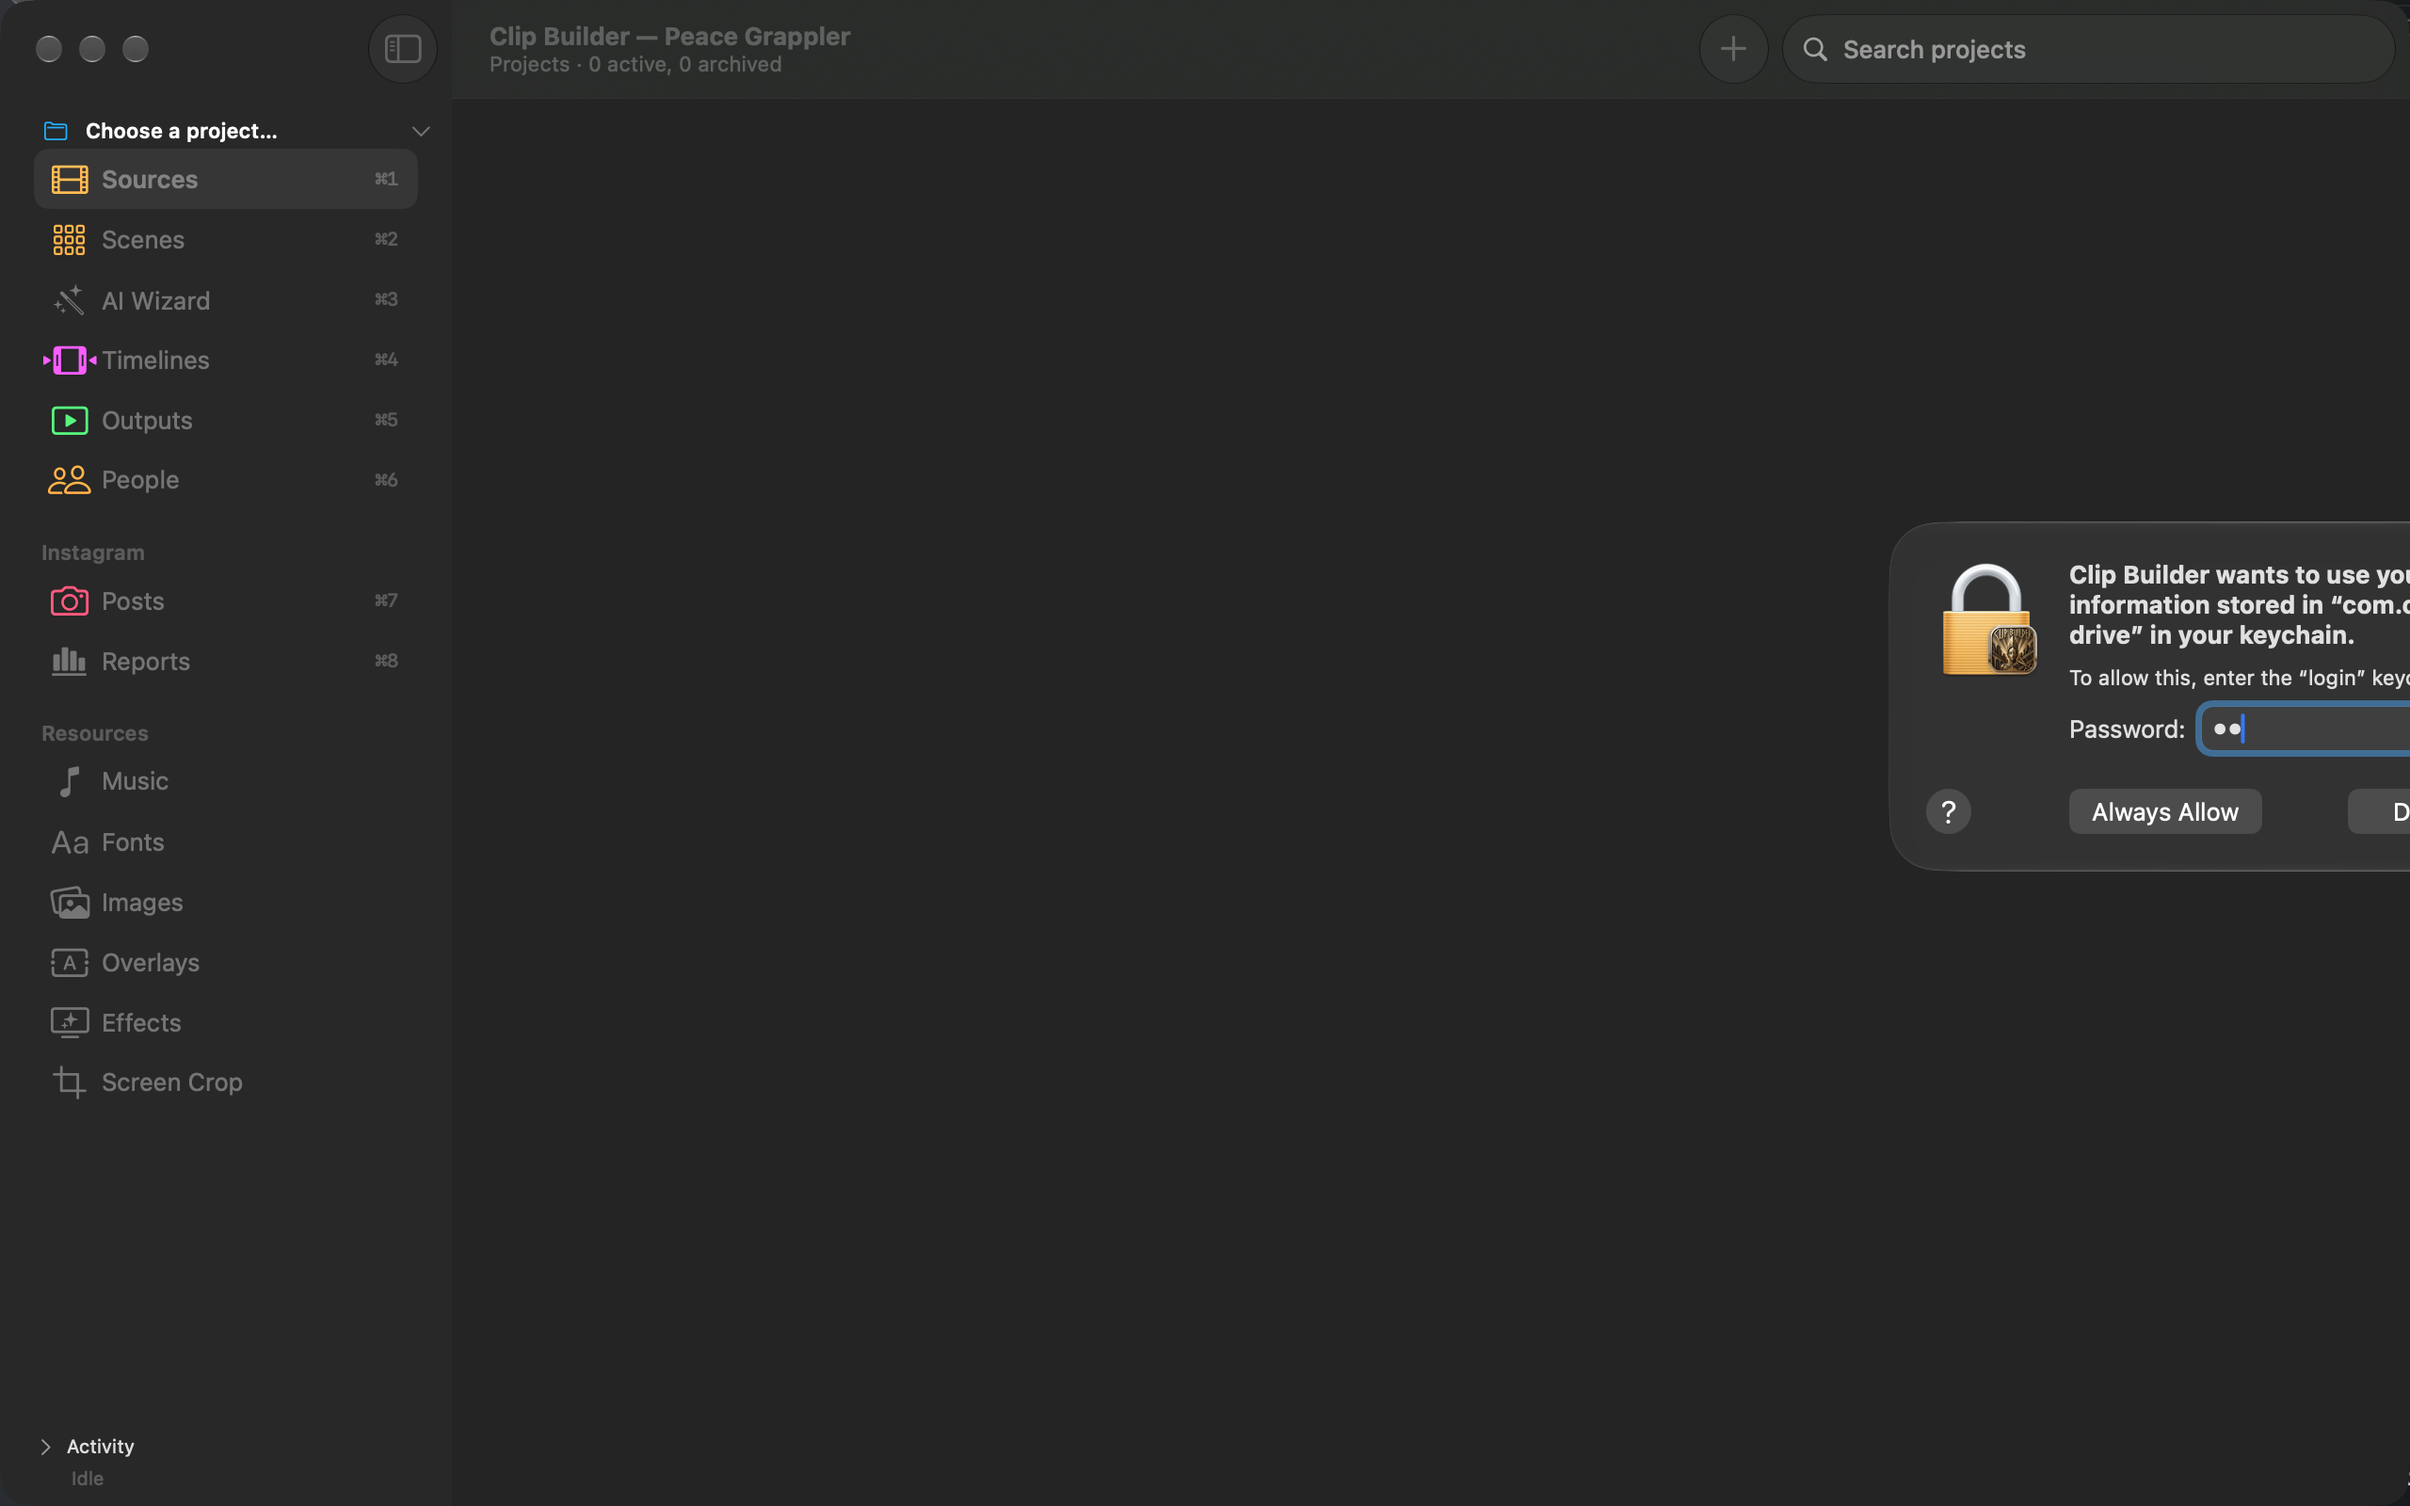
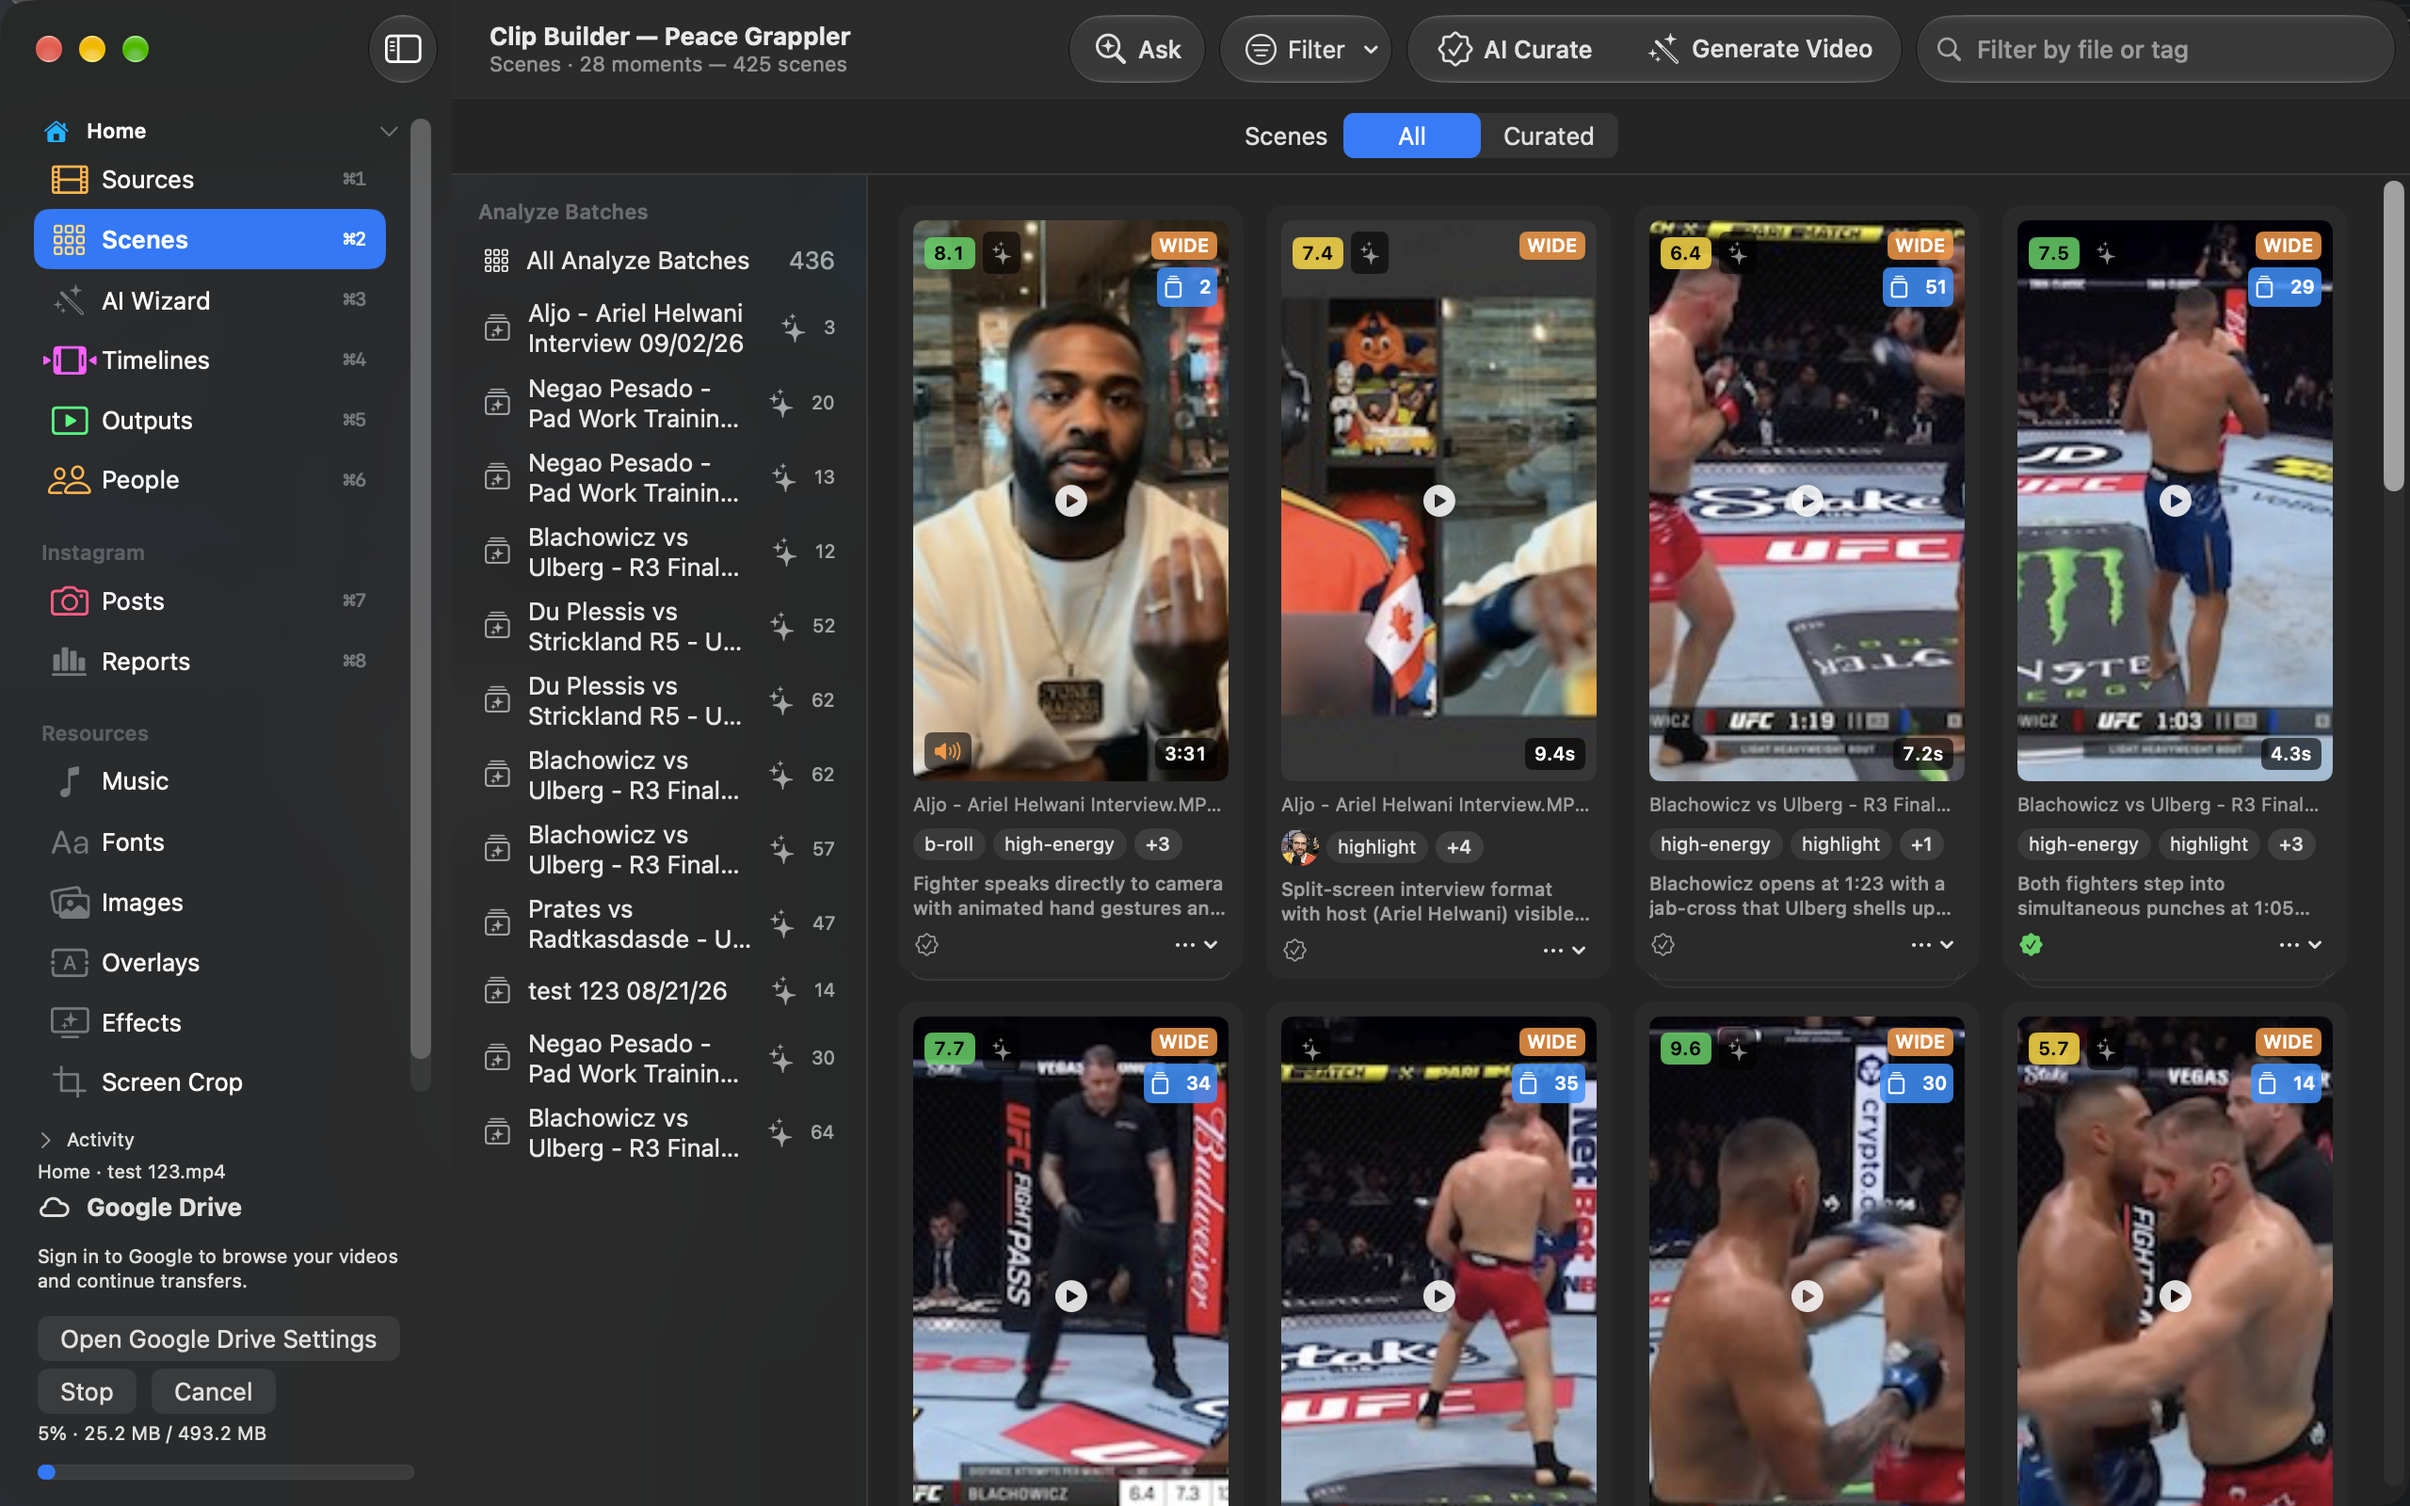
Release 1.48 (build 50)

diff --git a/docs/ClipBuilder-Getting-Started.html b/docs/ClipBuilder-Getting-Started.html
@@ -99,7 +99,7 @@
 
 <h2>1. Install the App</h2>
 <ol>
-    <li>Download <code>ClipBuilder-1.47.pkg</code> from the
+    <li>Download <code>ClipBuilder-1.48.pkg</code> from the
         <a href="https://github.com/abghandour/ClipBuilder/releases">GitHub Releases page</a>.</li>
     <li>Double-click the downloaded <code>.pkg</code> file and follow the installer. The installer is signed and notarized by Apple, so no security warnings appear. You'll be asked for your Mac password to install.</li>
     <li>When the installer finishes, a <span class="step-label">Terminal window opens automatically</span> to complete setup. It installs everything Clip Builder needs and walks you through the first-time configuration:
@@ -202,7 +202,7 @@
 <h2>You're Ready</h2>
 <p>Point your <em>Input folder</em> at some footage, open the <em>Analyze</em> tab to scan and tag scenes, then use the <em>Wizard</em> or <em>Builder</em> to assemble and export clips.</p>
 
-<footer>Clip Builder 1.47 — Getting Started Guide · July 2026</footer>
+<footer>Clip Builder 1.48 — Getting Started Guide · July 2026</footer>
 
 </body>
 </html>
